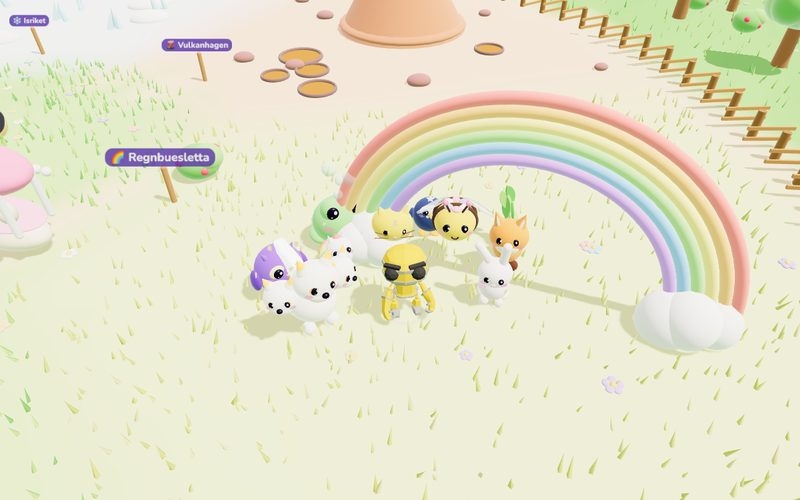
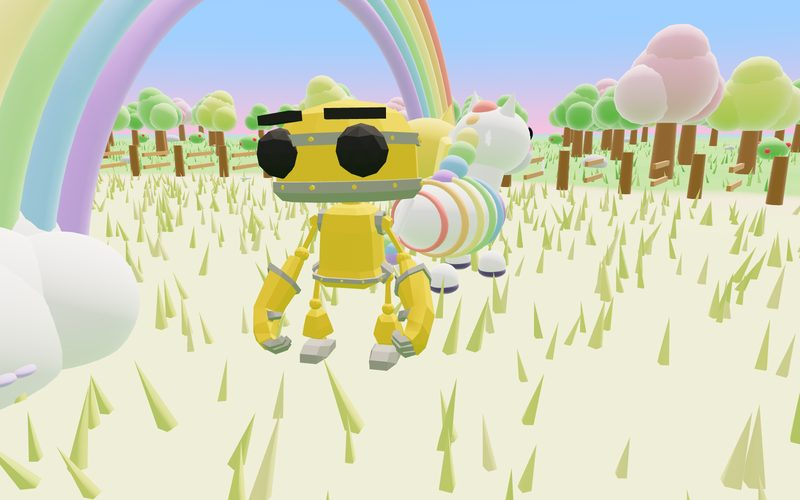
Forsiden: nye kortbilder for Dyrepatruljen og Magiske egg, utsnitt på mobil
Ekte bilder fra spillenes egen grafikk (valgt av Ivar): Dyrepatruljen i
dyreparkens jungelområde, Magiske egg med regnbuesebra og regnbue. På
mobil vises toppen av bildet så robothodet ikke kuttes. Nyheten om
Magiske egg sier «seks områder».

Claude-Session: https://claude.ai/code/session_01MHiEAxRHCBG5ApPNUV1V1h

diff --git a/index.html b/index.html
@@ -161,6 +161,7 @@
     #spill .spill-liste { grid-template-columns: 1fr; gap: 14px; }
     .spillkort { flex-direction: column; min-height: 0; }
     .spillkort .bilde { width: 100%; aspect-ratio: 2 / 1; flex-shrink: 0; }
+    .spillkort .bilde img.topp { object-position: 50% 0; } /* robothodet står høyt i bildet: vis toppen når bildet beskjæres til 2:1 */
     .spillkort .bilde::after { background: linear-gradient(0deg, rgba(19,26,58,.95) 0%, rgba(19,26,58,0) 50%); }
     .spillkort .tekst { margin-top: -40px; padding: 0 14px 14px; gap: 6px; }
     .spillkort h3 { font-size: 28px; line-height: 1.05; }
@@ -344,7 +345,7 @@
 
       <a class="spillkort k-dyr inn" style="--i:3" href="spill/dyrepatruljen/">
         <div class="bilde">
-          <img src="bilder/dyrepatruljen.jpg" srcset="bilder/dyrepatruljen.jpg 800w, bilder/dyrepatruljen-1200.jpg 1200w" sizes="(max-width: 680px) 100vw, 400px" alt="Skjermbilde fra Dyrepatruljen: den gule roboten med håven sniker seg innpå en rev og en rotte på torget i byen">
+          <img class="topp" src="bilder/dyrepatruljen.jpg" srcset="bilder/dyrepatruljen.jpg 800w, bilder/dyrepatruljen-1200.jpg 1200w" sizes="(max-width: 680px) 100vw, 400px" alt="Skjermbilde fra Dyrepatruljen: den gule roboten med håven i dyreparken, med papegøye og skilpadde ved dammen i jungelområdet">
           <span class="merke klar">Nytt</span>
           <span class="avspill" aria-hidden="true"></span>
         </div>
@@ -358,7 +359,7 @@
 
       <a class="spillkort k-egg inn" style="--i:4" href="spill/magiske-egg/">
         <div class="bilde">
-          <img src="bilder/magiske-egg.jpg" srcset="bilder/magiske-egg.jpg 800w, bilder/magiske-egg-1200.jpg 1200w" sizes="(max-width: 680px) 100vw, 400px" alt="Skjermbilde fra Magiske egg: EVN-roboten står blant kosedyr foran en regnbue">
+          <img class="topp" src="bilder/magiske-egg.jpg" srcset="bilder/magiske-egg.jpg 800w, bilder/magiske-egg-1200.jpg 1200w" sizes="(max-width: 680px) 100vw, 400px" alt="Skjermbilde fra Magiske egg: den gule roboten og en regnbuesebra foran en regnbue">
           <span class="merke klar">Nytt</span>
           <span class="avspill" aria-hidden="true"></span>
         </div>
@@ -384,7 +385,7 @@
         <span class="ikon" aria-hidden="true">🥚</span>
         <time datetime="2026-11-03">3. november 2026</time>
         <h3><a href="spill/magiske-egg/">Nytt spill: Magiske egg!</a></h3>
-        <p>Klekk magiske egg og samle 15 søte dyr i seks verdener. Gi dyrene mat, så vokser de!</p>
+        <p>Klekk magiske egg og samle 15 søte dyr i seks områder. Gi dyrene mat, så vokser de!</p>
         <span class="mer" aria-hidden="true">Spill Magiske egg</span>
       </article>
       <article class="nyhet n2 inn" style="--i:1">

diff --git a/ENDRINGSLOGG.md b/ENDRINGSLOGG.md
@@ -6,7 +6,7 @@ er små – se på retning over flere uker, ikke på enkeltdager.
 
 | Dato | Hva | Spill | Kan påvirke |
 |---|---|---|---|
-| 2026-11-03 | **Forsiden: «Siste nytt», personvern og opprydding (ikke publisert).** «Siste nytt» viser Magiske egg (3.11), den gule roboten i fire spill (3.11) og Dyrepatruljen (2.11) i stedet for de tre sakene fra 1.11; datoer og innhold er hentet fra radene under. Personvernsiden beskriver nå hva GoatCounter faktisk registrerer (nettleser, operativsystem, skjermbredde, omtrentlig sted, henvisende side, kortvarig besøkskode av IP og nettleser som ikke lagres) og at spilletiden kan telle pauser; basenavnet i Era Defenders er nevnt under lokal lagring. Sikkerhetssiden er samkjørt. Topplinja: lenkene og logoen er minst 44 px høye på mobil (T1). CSS: fjernet regler for den gamle hovedspill-flaten og regler som ble overstyrt lenger ned; skjermbilder i 18 bredder er piksel-like før og etter (unntak: på 280–300 px står «Nytt» og «Om» midt i høyden når «Alle spill» brytes). Guttemaskoten og spillkortene er uendret. | Forside, personvern, sikkerhet | Kan gi flere starter av Magiske egg og Dyrepatruljen fra nyhetene |
+| 2026-11-03 | **Forsiden: «Siste nytt», personvern og opprydding (ikke publisert).** «Siste nytt» viser Magiske egg (3.11), den gule roboten i fire spill (3.11) og Dyrepatruljen (2.11) i stedet for de tre sakene fra 1.11; datoer og innhold er hentet fra radene under. Personvernsiden beskriver nå hva GoatCounter faktisk registrerer (nettleser, operativsystem, skjermbredde, omtrentlig sted, henvisende side, kortvarig besøkskode av IP og nettleser som ikke lagres) og at spilletiden kan telle pauser; basenavnet i Era Defenders er nevnt under lokal lagring. Sikkerhetssiden er samkjørt. Topplinja: lenkene og logoen er minst 44 px høye på mobil (T1). CSS: fjernet regler for den gamle hovedspill-flaten og regler som ble overstyrt lenger ned; skjermbilder i 18 bredder er piksel-like før og etter (unntak: på 280–300 px står «Nytt» og «Om» midt i høyden når «Alle spill» brytes). Nye kortbilder (valgt av Ivar 3.11.2026), ekte bilder fra spillets egen grafikk med kamera plassert for bildet: Dyrepatruljen viser roboten forfra i dyreparken (jungelområdet, testlagring med reddede dyr), Magiske egg viser roboten og regnbuesebraen ved regnbuen. På mobil (2:1) vises toppen av disse to bildene, så robothodet ikke kuttes. «Siste nytt»-teksten om Magiske egg sier «seks områder» (de er områder i én park). Guttemaskoten er uendret. | Forside, personvern, sikkerhet | Kan gi flere starter av Magiske egg og Dyrepatruljen fra nyhetene |
 | 2026-11-03 | **Forsiden: gutten er tilbake som maskot** (Evens ønske 3.11.2026). Gutten står igjen i «Hvem står bak?» og ved «Siste nytt», slik det var før roboten. Den vinkende roboten ved «Velg et spill» er fjernet, og forsiden lagrer ikke lenger `evn-robot-vinket` i sessionStorage. Robotbildene som bare forsiden brukte er slettet. I spillene og på startkortene er helten fortsatt EVN-roboten, og spillkortbildene for Era Defenders, Fossil Zoo, Dyrepatruljen og Magiske egg viser roboten (Mørkeskogen 5.6.2 har ikke roboten). Publisert ved PR #8 (4474df5). | Forside | Ingen forventet effekt |
 | 2026-11-03 | **Samlet publisering: EVN-roboten i alle spill** (Evens beslutning, publisering godkjent av Ivar 3.11.2026). Era Defenders 0.20.0, Fossil Zoo 0.7.5, Dyrepatruljen 0.10.16, Magiske egg 0.8.2 (nytt spill) og forsiden, slått sammen fra grenene robot/era, robot/fossil, robot/dyrepatruljen, robot/magiske-egg og robot/nettside (se radene under). Mørkeskogen 5.6.2 er ikke endret. Verktøyet som lager robotbildene (`felles/robot/`, 3D-modell og skript) publiseres ikke; det ligger på grenen `robot/felles`. | Alle spill, forside | Flere starter av Magiske egg; ellers ingen forventet effekt |
 | 2026-11-03 | **Era Defenders v0.20.0: helten er EVN-roboten.** Roboten tegnes ovenfra og skrått i 8 retninger med animasjon for å stå, gå og slå (spritark fra `felles/robot/`, RobotExpressive CC0, #ffcc00). Våpnene tegnes som før. Roboten har utstyr som passer tidsepoken (hatt eller hjelm og kappe eller utstyr: pelslue med bein, hjelm med kam, ridderhjelm, piratlue, vernehjelm og verktøybelte, romhjelm og oksygentank, trollmannshatt og stjernekappe), tegnet som et eget lag over roboten. Startkortet viser roboten «klar til kamp» i stedet for gutten (samme bredde som gutten hadde, så teksten får like mye plass). Styring, treff, fart, vanskelighetsgrad, lagring og statistikk er uendret. sw-cache v0.30. | Era Defenders | Ingen forventet effekt |
